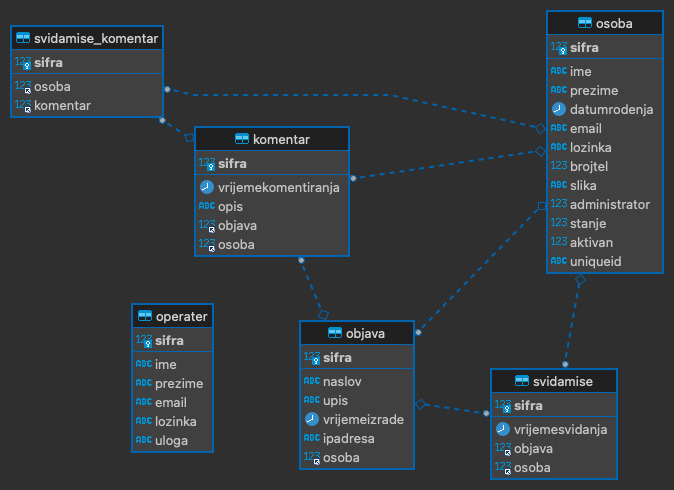
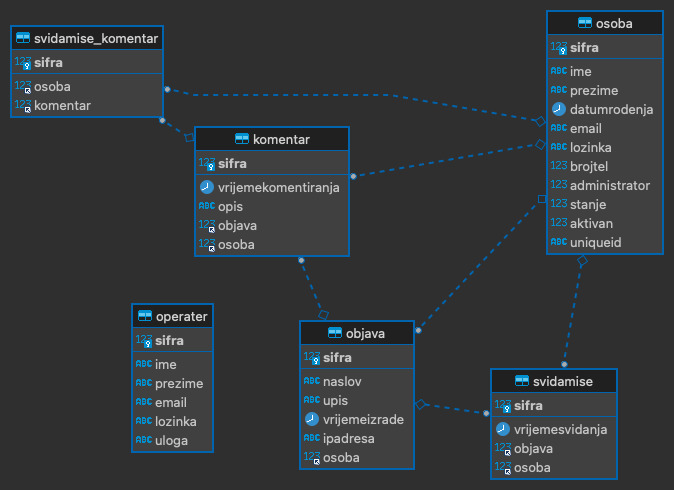
Removed unnecessary slika attribute in osoba because there is a much better way to load photos of user that i am already using, also implemented on creation on posts now the IP address is collected, DOB check is now also implemented

diff --git a/www/bluefreedom.hr/app/controller/RegisterController.php b/www/bluefreedom.hr/app/controller/RegisterController.php
@@ -36,11 +36,12 @@ class RegisterController extends Controller
         //$this->prepareForDB();
         //unset($this->e->confirmpw);
         $this->e->uniqueid=uniqid();
-        User::create((array)$this->e);
-        $mail = new SendMail;
-        $this->e->fullname=$this->e->fname . ' ' . $this->e->lname;
-        $mail->confirmMail($this->e->uniqueid,$this->e->email,$this->e->fullname);
-        echo ("<script>window.alert('Registered successfully!');window.location.href='" . App::config('url') . "';</script>");
+        Log::info($this->e);
+        //User::create((array)$this->e);
+        //$mail = new SendMail;
+        //$this->e->fullname=$this->e->fname . ' ' . $this->e->lname;
+        //$mail->confirmMail($this->e->uniqueid,$this->e->email,$this->e->fullname);
+        //echo ("<script>window.alert('Registered successfully!');window.location.href='" . App::config('url') . "';</script>");
     }
 
     private function callView($parameters)
@@ -79,6 +80,19 @@ class RegisterController extends Controller
         if((int)$dob===0)
         {
             $this->message='Date of birth cannot be empty';
+            return false;
+        }
+        $year=(int)explode('-',$dob)[0];
+        $month=(int)explode('-',$dob)[1];
+        $day=(int)explode('-',$dob)[2];
+        if($dob>date('Y-m-d'))
+        {
+            $this->message='Are you a person that is not yet born? Please input correct date of birth!';
+            return false;
+        }
+        if(!checkdate($month,$day,$year))
+        {
+            $this->message='Invalid date!';
             return false;
         }
         return true;

diff --git a/www/bluefreedom.hr/app/controller/UserController.php b/www/bluefreedom.hr/app/controller/UserController.php
@@ -238,6 +238,7 @@ class UserController extends UserAuthorisationController
         $fname=$this->info->fname;
         $lname=$this->info->lname;
         $email=$this->info->email;
+        $dob=$this->info->dob;
 
         if(strlen(trim($fname))==0)
         {
@@ -264,6 +265,19 @@ class UserController extends UserAuthorisationController
         }
         if(strlen(trim($email))>50){
             $this->message='E-mail cannot be longer than 50 chars!';
+            return false;
+        }
+        $year=(int)explode('-',$dob)[0];
+        $month=(int)explode('-',$dob)[1];
+        $day=(int)explode('-',$dob)[2];
+        if($dob>date('Y-m-d'))
+        {
+            $this->message='Are you a person that is not yet born? Please input correct date of birth!';
+            return false;
+        }
+        if(!checkdate($month,$day,$year))
+        {
+            $this->message='Invalid date!';
             return false;
         }
         return true;

diff --git a/www/bluefreedom.hr/app/model/Post.php b/www/bluefreedom.hr/app/model/Post.php
@@ -112,10 +112,17 @@ class Post
 
     public static function create($parameters)
     {
+        if (!empty($_SERVER['HTTP_CLIENT_IP'])) {
+            $parameters['ip'] = $_SERVER['HTTP_CLIENT_IP'];
+        } elseif (!empty($_SERVER['HTTP_X_FORWARDED_FOR'])) {
+            $parameters['ip'] = $_SERVER['HTTP_X_FORWARDED_FOR'];
+        } else {
+            $parameters['ip'] = $_SERVER['REMOTE_ADDR'];
+        }
         $connection=DB::getInstance();
         $query=$connection->prepare('
-        insert into objava (naslov,upis,vrijemeizrade,osoba)
-        values(:title,:description,now(),:id)
+        insert into objava (naslov,upis,vrijemeizrade,osoba,ipadresa)
+        values(:title,:description,now(),:id,:ip)
         ');
         $query->execute($parameters);
         return $connection->lastInsertId();

diff --git a/www/bluefreedom.hr/app/model/Posts.php b/www/bluefreedom.hr/app/model/Posts.php
@@ -16,7 +16,8 @@ class Posts
         a.sifra as sifrakorisnika,
         b.sifra as sifraobjave,
         b.naslov as naslovobjave,
-        b.upis as upisobjave
+        b.upis as upisobjave,
+        b.ipadresa as ip
         from osoba a
         inner join objava b on b.osoba = a.sifra
         where concat(b.naslov, \' \' , b.upis, \' \', b.sifra)
